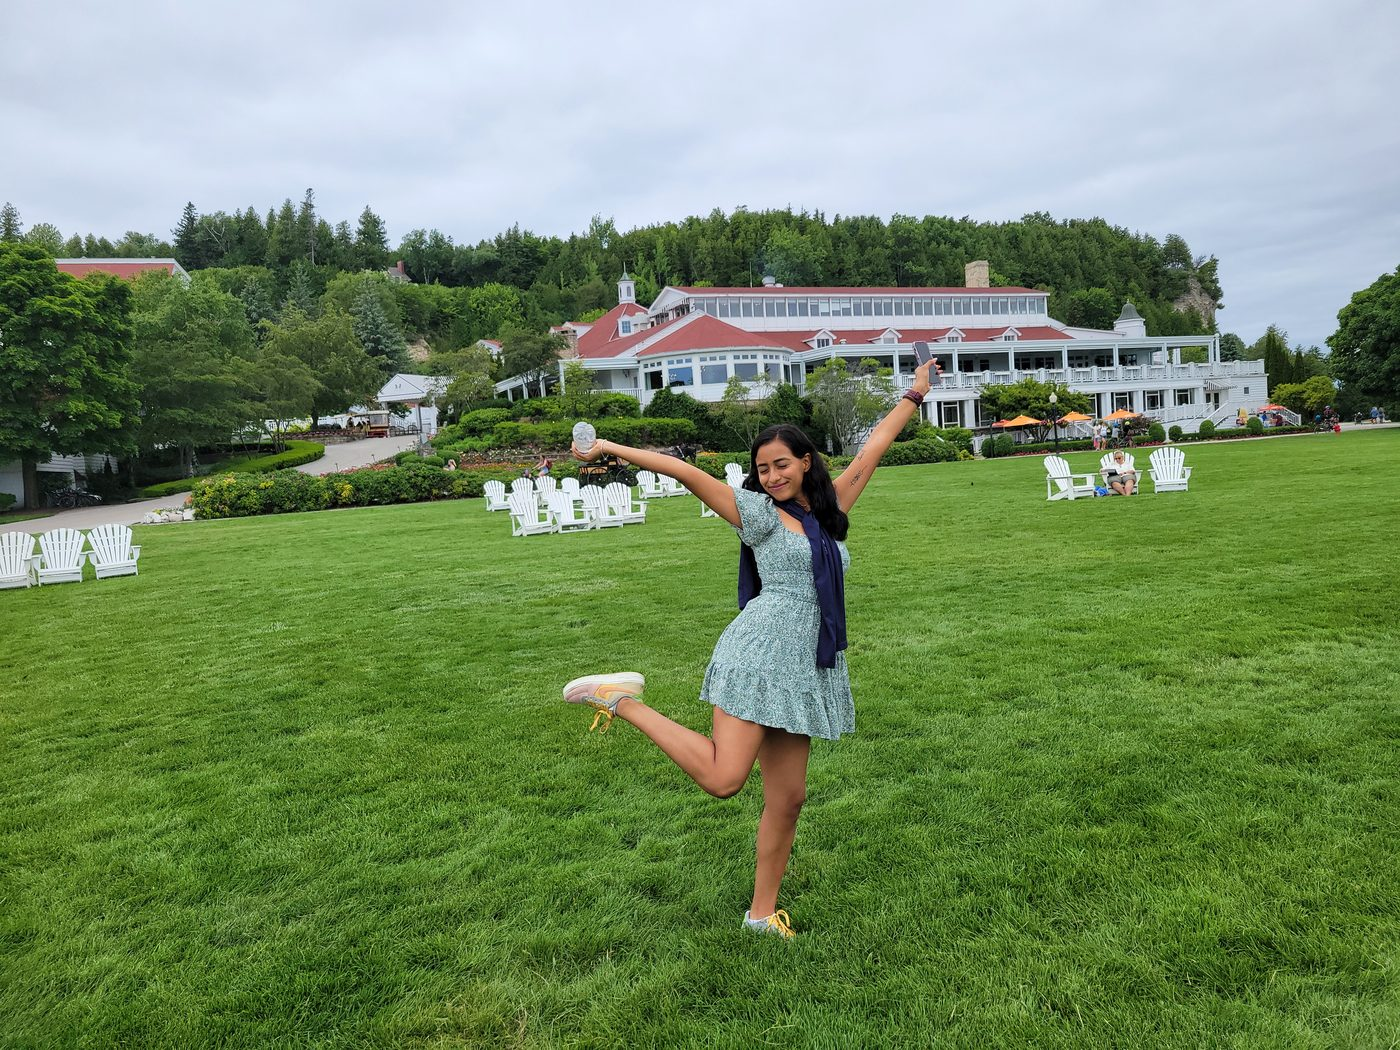
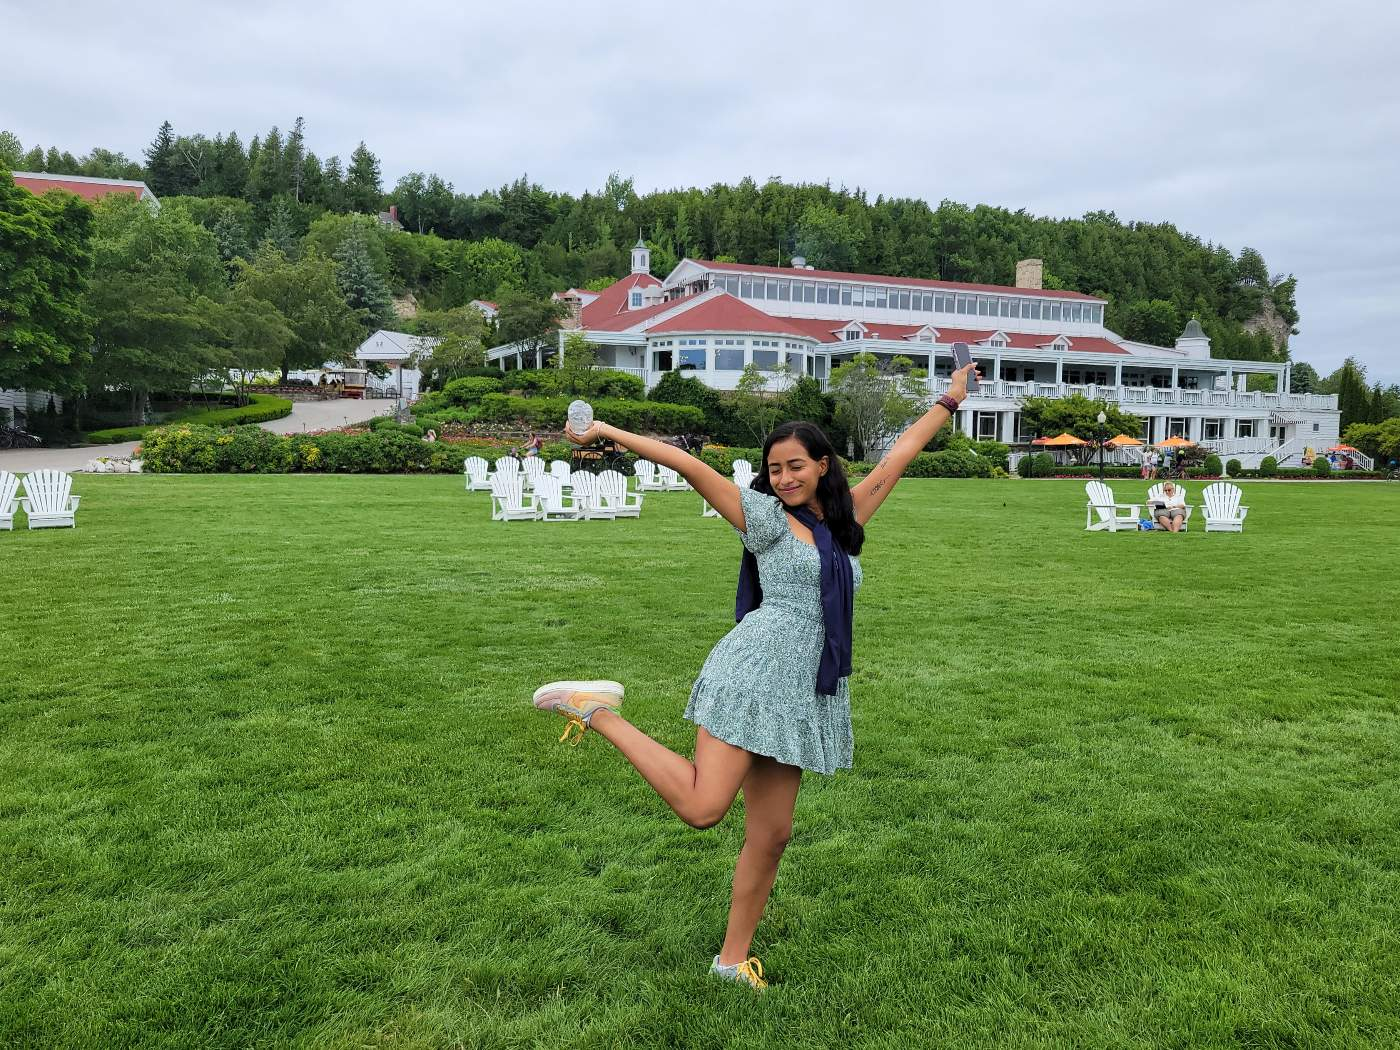
Update Our Story photos: Michigan

diff --git a/our-story.html b/our-story.html
@@ -830,7 +830,7 @@
       { name: "Illinois",         nameEs: "Illinois",          flag: "",   flagImg: "illinois-flag-icon-256.png",             filePrefix: "Illinois",       photoVersion: "88f6706ad53da64e243f", images: ["Illinois.jpg","Illinois2.jpg","Illinois3.jpg"] },
       { name: "Indiana",          nameEs: "Indiana",           flag: "",   flagImg: "indiana-flag-icon-256.png",              filePrefix: "Indiana",        photoVersion: "8cf4ead625cd223b3283", images: ["Indiana.jpg","Indiana2.jpg","Indiana3.jpg","Indiana4.jpg","Indiana5.jpg","Indiana6.jpg","Indiana7.jpg","Indiana8.jpg","Indiana9.jpg","Indiana10.jpg","Indiana11.jpg","Indiana12.jpg"] },
       { name: "Massachusetts",    nameEs: "Massachusetts",     flag: "",   flagImg: "massachusetts-flag-icon-256.png",        filePrefix: "Massachusetts",  photoVersion: "d8f12550b775beb0c715", images: ["Massachusetts.jpg"] },
-      { name: "Michigan",         nameEs: "Michigan",          flag: "",   flagImg: "michigan-flag-icon-256.png",             filePrefix: "Michigan",       photoVersion: "441a87fa88f8a2c49b4f", images: ["Michigan.jpg","Michigan2.jpg","Michigan3.jpg","Michigan4.jpg","Michigan5.jpg","Michigan6.jpg","Michigan7.jpg","Michigan8.jpg","Michigan9.jpg","Michigan10.jpg","Michigan11.jpg","Michigan12.jpg","Michigan13.jpg","Michigan14.jpg","Michigan15.jpg","Michigan16.jpg"] },
+      { name: "Michigan",         nameEs: "Michigan",          flag: "",   flagImg: "michigan-flag-icon-256.png",             filePrefix: "Michigan",       photoVersion: "3cc2821498663655840e", images: ["Michigan.jpg","Michigan2.jpg","Michigan3.jpg","Michigan4.jpg","Michigan5.jpg","Michigan6.jpg","Michigan7.jpg","Michigan8.jpg","Michigan9.jpg","Michigan10.jpg","Michigan11.jpg","Michigan12.jpg","Michigan13.jpg","Michigan14.jpg","Michigan15.jpg","Michigan16.jpg"] },
       { name: "Montana",          nameEs: "Montana",           flag: "",   flagImg: "montana-flag-icon-256.png",              filePrefix: "Montana",        photoVersion: "cd0008f803ae18e566e3", images: ["Montana.jpg","Montana2.jpg","Montana3.jpg","Montana4.jpg","Montana5.jpg"] },
       { name: "New Jersey",       nameEs: "Nueva Jersey",      flag: "",   flagImg: "new-jersey-flag-icon-256.png",           filePrefix: "New Jersey",     photoVersion: "ba4b67ffb288ddf6ad3e", images: ["New Jersey.jpg","New Jersey2.jpg","New Jersey3.jpg","New Jersey4.jpg","New Jersey5.jpg","New Jersey6.jpg"] },
       { name: "New York",         nameEs: "Nueva York",        flag: "",   flagImg: "new-york-flag-icon-256.png",             filePrefix: "New York",       photoVersion: "cd18ce2fa3a496a9a64e", images: ["New York.jpg","New York2.jpg","New York3.jpg","New York4.jpg","New York5.jpg","New York6.jpg","New York7.jpg","New York8.jpg","New York9.jpg","New York10.jpg","New York11.jpg","New York12.jpg","New York13.jpg","New York14.jpg","New York15.jpg","New York16.jpg","New York17.jpg","New York18.jpg","New York19.jpg","New York20.jpg","New York21.jpg"] },
